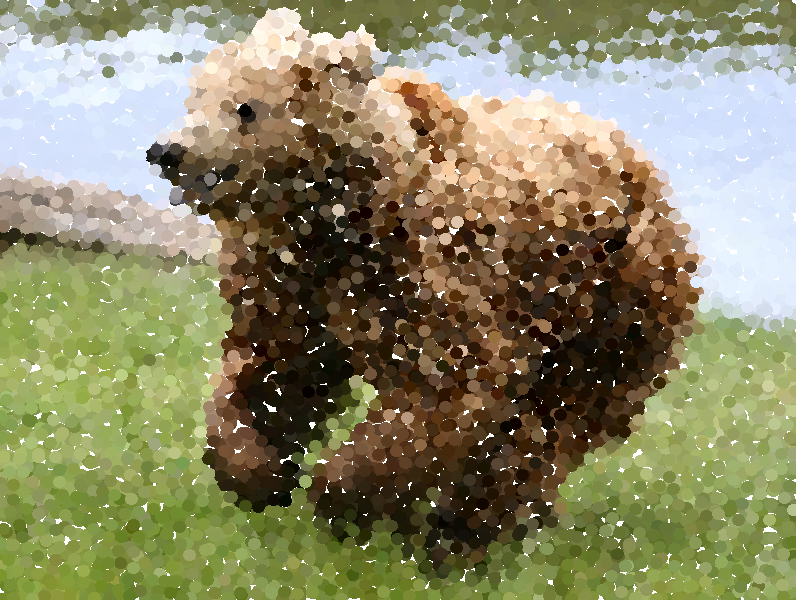
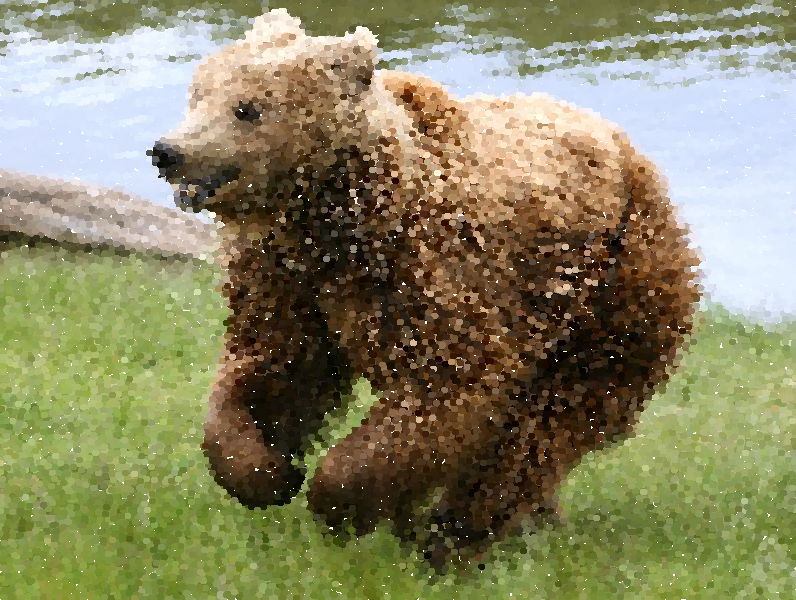
shorter tree query

diff --git a/seurat.py b/seurat.py
@@ -27,14 +27,14 @@ def no_neighbors(point, sample_points, tree, mindist):
         tree : cKDTree
         mindist : float
     """
-    distances, indexes = tree.query(point, len(sample_points) + 1, distance_upper_bound = mindist)
-    if len(distances)==0:
+    distance, idx = tree.query(point, 1, distance_upper_bound = mindist)
+    if distance==None:
+        print "this is a real condition"
         return False
-    for dist, index in zip(distances, indexes):
-        if np.isinf(dist):
-            return True
-        if dist < mindist:
-            return False
+    if distance < mindist:
+        return False
+    if np.isinf(distance):
+        return True
 
 def get_poisson_points(image, minimum_distance_between_samples, radius):
     """
@@ -45,7 +45,7 @@ def get_poisson_points(image, minimum_distance_between_samples, radius):
     first_point = (random.uniform(0, h), random.uniform(0,w))
     to_process = [first_point]
     sample_points = [first_point]
-    tree = cKDTree(sample_points)
+    tree = cKDTree(sample_points)#, compact_nodes=False)
 
     while to_process:
         pt = to_process.pop(random.randrange(len(to_process)))
@@ -58,8 +58,8 @@ def get_poisson_points(image, minimum_distance_between_samples, radius):
                 tree = cKDTree(sample_points)
     return sample_points
 
-r = 6
-mind = 10
+r = 3
+mind = 5
 
 def makecircle(image, coord, rad, color):
     # fill with low alpha
@@ -69,10 +69,15 @@ opened = Image.open("bear.jpg")
 new = Image.new("RGB", opened.size, "white")
 draw = ImageDraw.Draw(new)
 
+import time
+
 # five repetitions
 for i in range(5):
     print i
+    start = time.clock()
     sample_points = get_poisson_points(opened, 2*r, mind)
+    end = time.clock()
+    print (end-start)/1000.0
 
     for point in sample_points:
         samplecolor = opened.getpixel(point)
